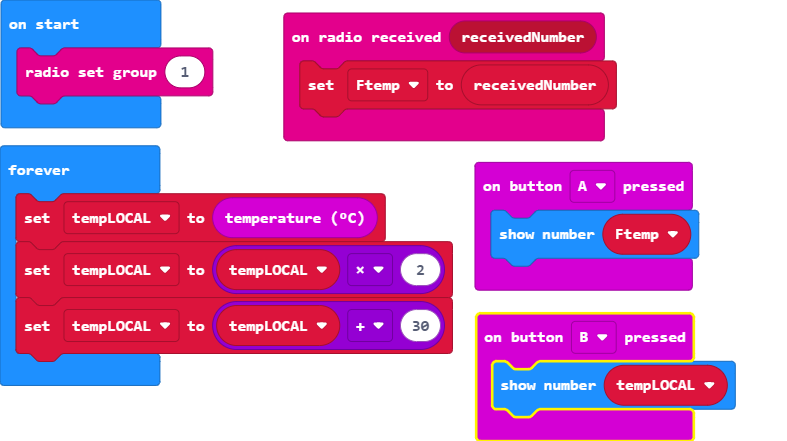
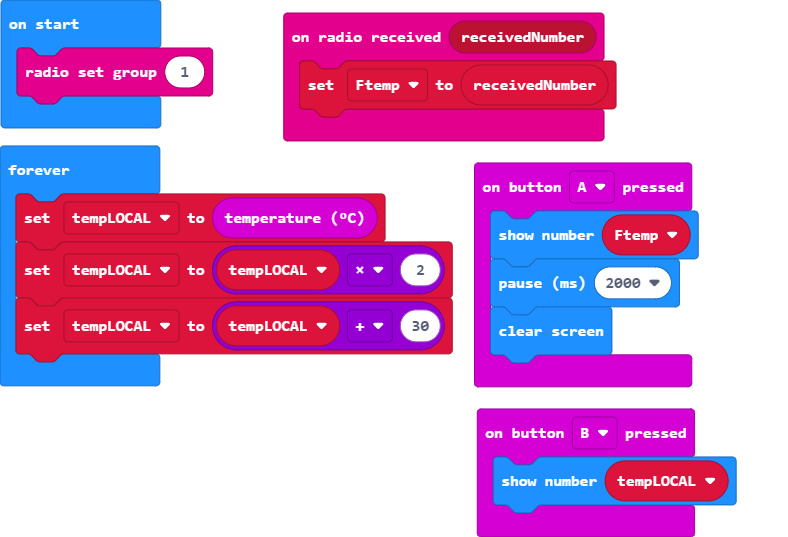
Added CLEAR screen after 2 secs on button A - Ftemp

diff --git a/main.ts b/main.ts
@@ -3,6 +3,8 @@ radio.onReceivedNumber(function (receivedNumber) {
 })
 input.onButtonPressed(Button.A, function () {
     basic.showNumber(Ftemp)
+    basic.pause(2000)
+    basic.clearScreen()
 })
 input.onButtonPressed(Button.B, function () {
     basic.showNumber(tempLOCAL)
